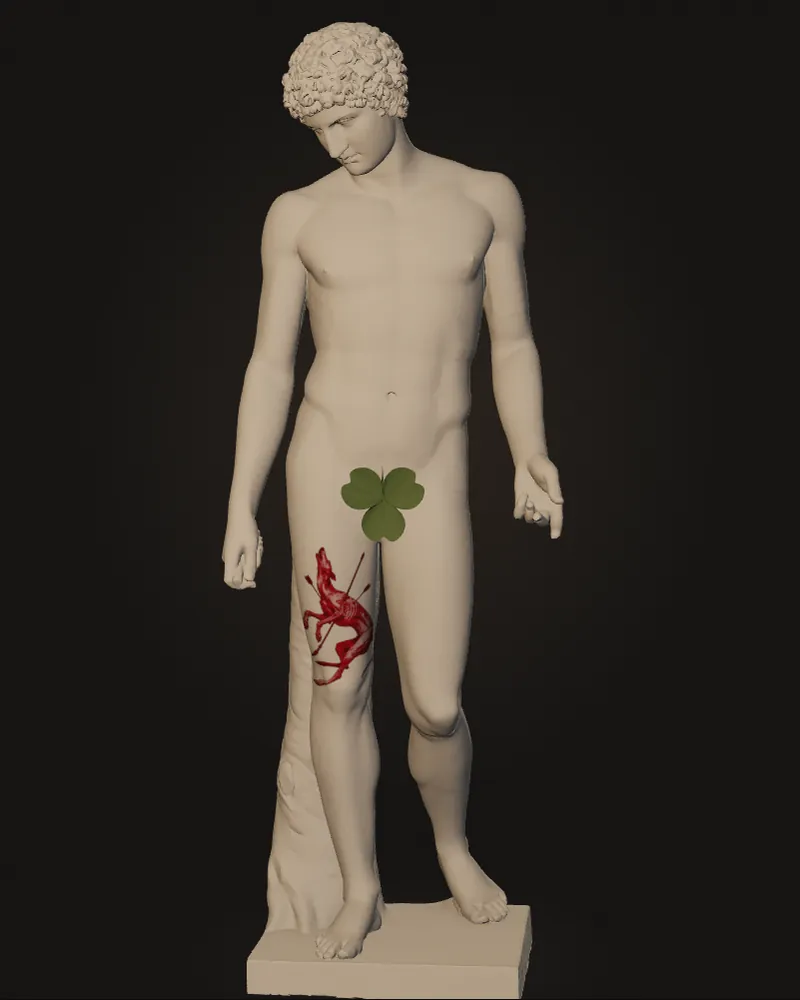
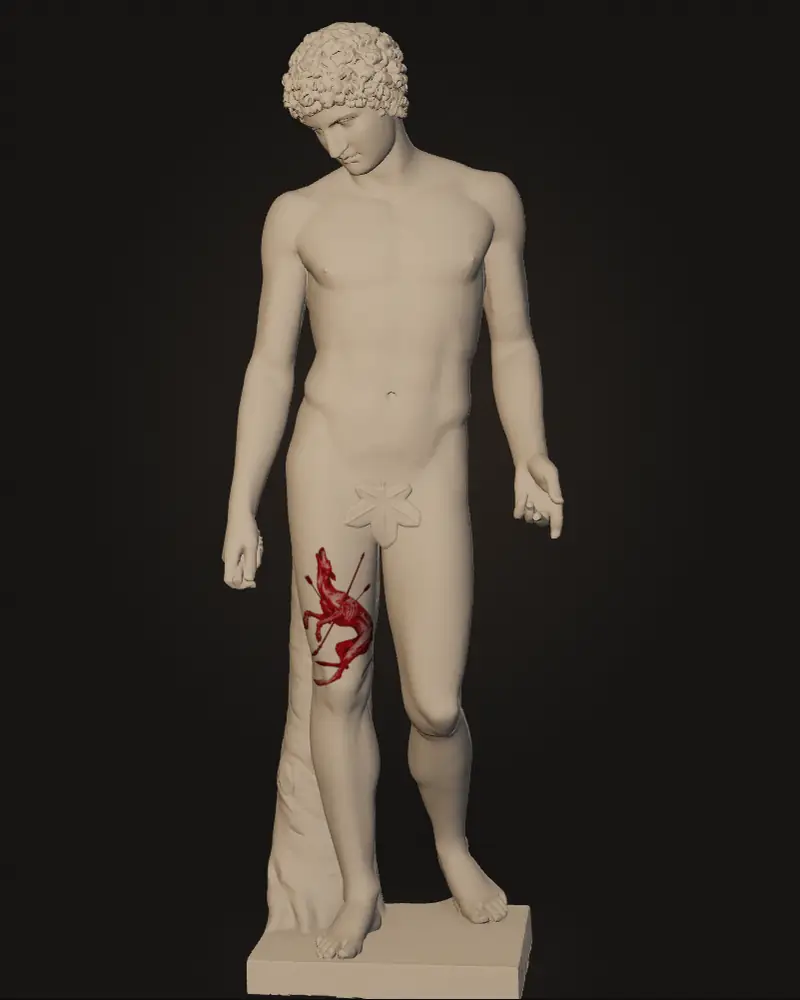
3D-примерка: фиговый лист в цвет гипса вместо клевера
Лист вылеплен заново: пять широких лопастей, черешок, выпуклые
прожилки и скруглённый край. Покрашен тем же гипсом, что и статуя.
Заставка переснята.

Claude-Session: https://claude.ai/code/session_017saDKpt9YK96hxjp8qh93x

Changed region(s): [[0.4062, 0.465, 0.5312, 0.558]]

diff --git a/src/scripts/tryon3d.js b/src/scripts/tryon3d.js
@@ -1,7 +1,7 @@
-// 3D-примерка: гипсовый слепок Антиноя Капитолийского (3D-скан SMK, общественное достояние) с листом клевера спереди.
+// 3D-примерка: гипсовый слепок Антиноя Капитолийского (3D-скан SMK, общественное достояние) с фиговым листом спереди.
 // Эскиз ложится на кожу наклейкой (decal), которая повторяет изгибы тела. Модель облегчена до 150 тыс. треугольников,
 // единица сцены = 1 м, фигура от подошвы до макушки 1,8 м (так размер эскиза в сантиметрах совпадает с примеркой на гравюре).
-// Лист — отдельная деталь со своим цветом: рисунок на него не ложится.
+// Лист — отдельная деталь из того же гипса: рисунок на него не ложится.
 import * as THREE from "three";
 import { GLTFLoader } from "three/examples/jsm/loaders/GLTFLoader.js";
 import { MeshoptDecoder } from "three/examples/jsm/libs/meshopt_decoder.module.js";
@@ -126,12 +126,11 @@ export async function mount(host, { model, onProgress } = {}) {
   const plaster = new THREE.MeshStandardMaterial({ color: 0xe4ded4, roughness: 0.9, metalness: 0 });
   const statue = new THREE.Mesh(geometry, plaster);
   scene.add(statue);
-  // Лист клевера: отдельная деталь, луч и наклейки его не видят
+  // Фиговый лист: отдельная деталь, луч и наклейки его не видят
   const leafSrc = gltf.scene.getObjectByName("leaf");
-  const leafMaterial = new THREE.MeshStandardMaterial({ color: 0x6f8452, roughness: 0.7, metalness: 0 });
   if (leafSrc) {
     leafSrc.geometry.computeVertexNormals();
-    const leaf = new THREE.Mesh(leafSrc.geometry, leafMaterial);
+    const leaf = new THREE.Mesh(leafSrc.geometry, plaster);
     leaf.applyMatrix4(leafSrc.matrixWorld);
     scene.add(leaf);
   }
@@ -520,7 +519,7 @@ export async function mount(host, { model, onProgress } = {}) {
     },
     dispose() {
       cancelAnimationFrame(raf); ro.disconnect(); io.disconnect();
-      geometry.disposeBoundsTree?.(); geometry.dispose(); plaster.dispose(); decalMaterial.dispose(); leafMaterial.dispose(); leafSrc?.geometry.dispose();
+      geometry.disposeBoundsTree?.(); geometry.dispose(); plaster.dispose(); decalMaterial.dispose(); leafSrc?.geometry.dispose();
       decal.texture?.dispose(); decal.mesh?.geometry.dispose(); renderer.dispose(); canvas.remove();
     },
   };

diff --git a/CREDITS.md b/CREDITS.md
@@ -30,7 +30,7 @@
 - `apollon-1000.webp`: Asher Brown Durand, «Apollo Belvedere», 1825, гравюра. https://www.metmuseum.org/art/collection/search/394436. Обрезана по листу. Маска кожи `apollon-skin.png` нарисована по контуру фигуры.
 
 ## 3D-примерка
-- `public/assets/models/antinoy.glb`: гипсовый слепок Антиноя Капитолийского, SMK (Statens Museum for Kunst, Копенгаген), Royal Cast Collection, инв. KAS824, открытый 3D-скан, Public Domain Mark. https://open.smk.dk/artwork/image/KAS824. Упрощён до 150 тыс. треугольников, поставлен прямо и отмасштабирован до роста 180 см. Анатомия в паху сглажена, швы слепка на шее, руке и голени заглажены, спереди добавлен свой лист клевера. Сжат meshopt.
+- `public/assets/models/antinoy.glb`: гипсовый слепок Антиноя Капитолийского, SMK (Statens Museum for Kunst, Копенгаген), Royal Cast Collection, инв. KAS824, открытый 3D-скан, Public Domain Mark. https://open.smk.dk/artwork/image/KAS824. Упрощён до 150 тыс. треугольников, поставлен прямо и отмасштабирован до роста 180 см. Анатомия в паху сглажена, швы слепка на шее, руке и голени заглажены, спереди добавлен свой фиговый лист. Сжат meshopt.
 - `antinoy-3d-poster.webp`: снимок той же сцены, показывается до загрузки.
 - Библиотеки three.js и three-mesh-bvh, лицензия MIT.
 
